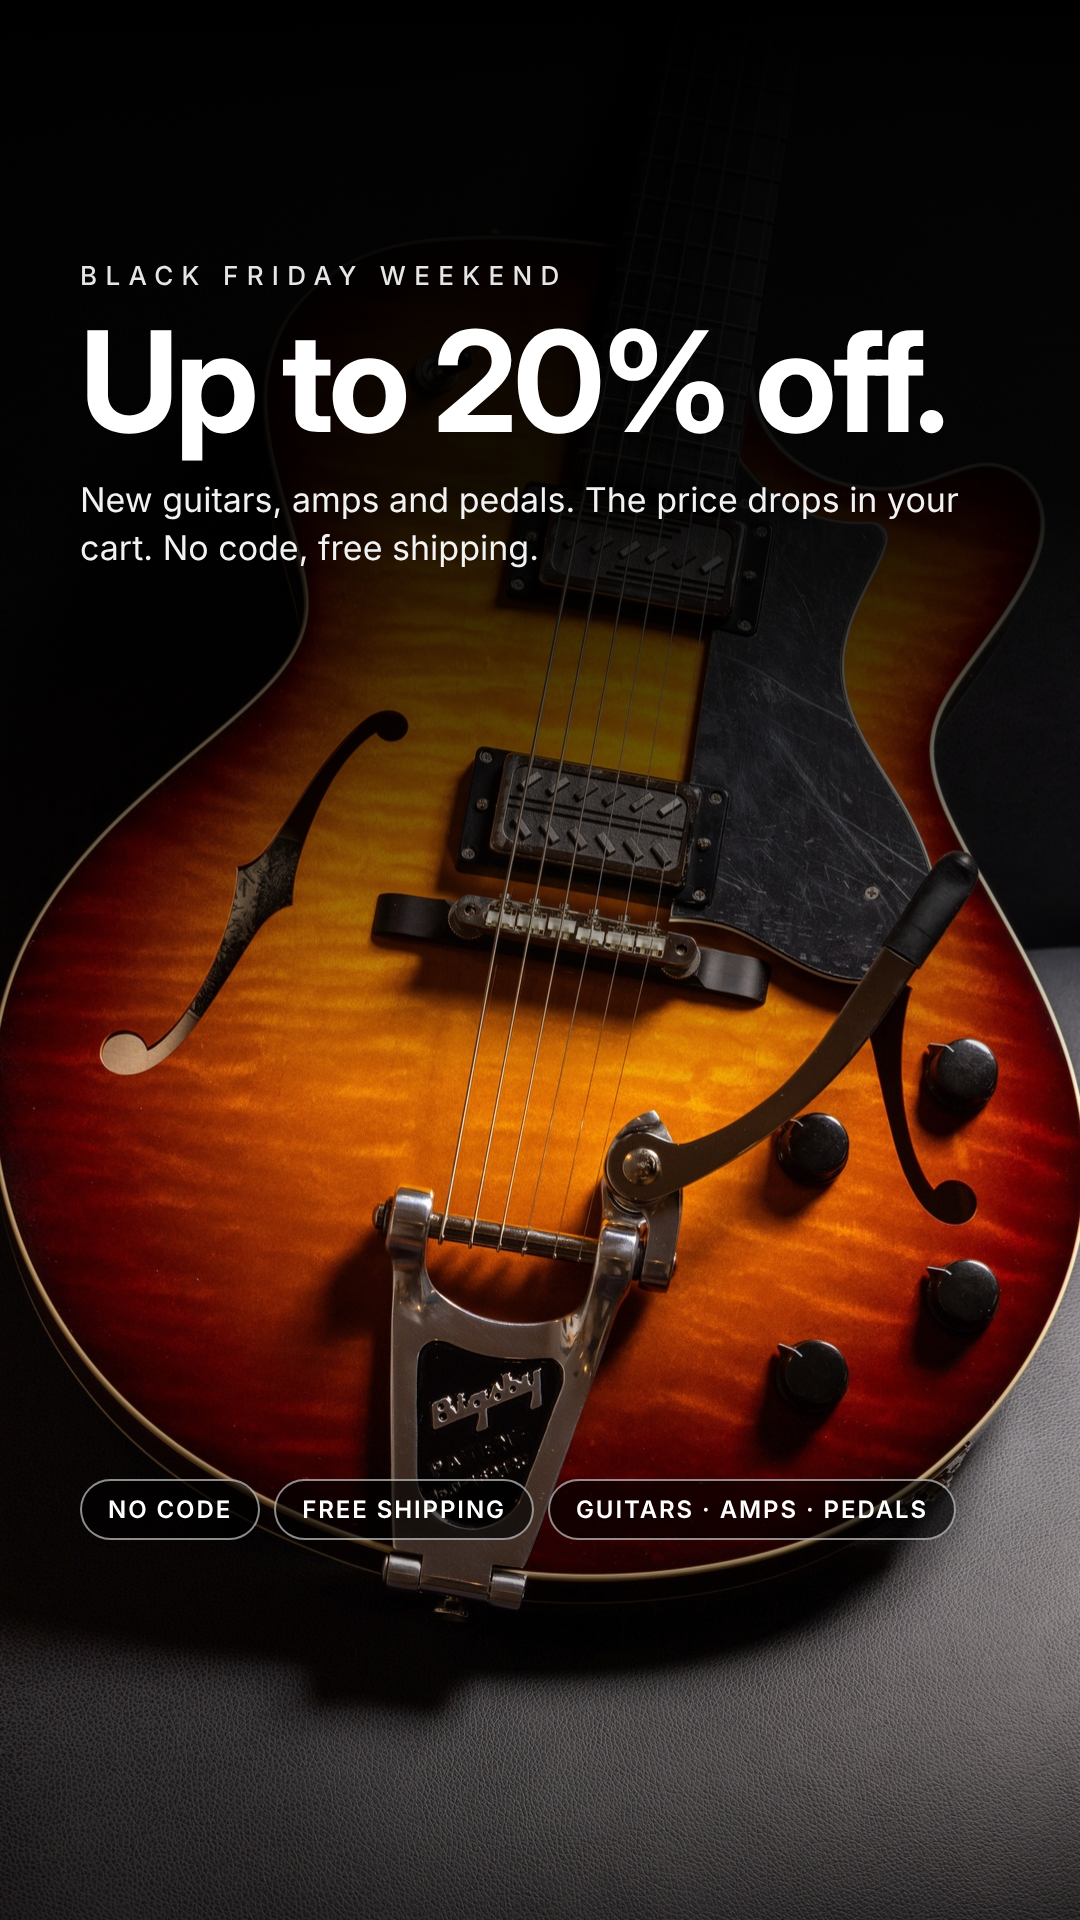
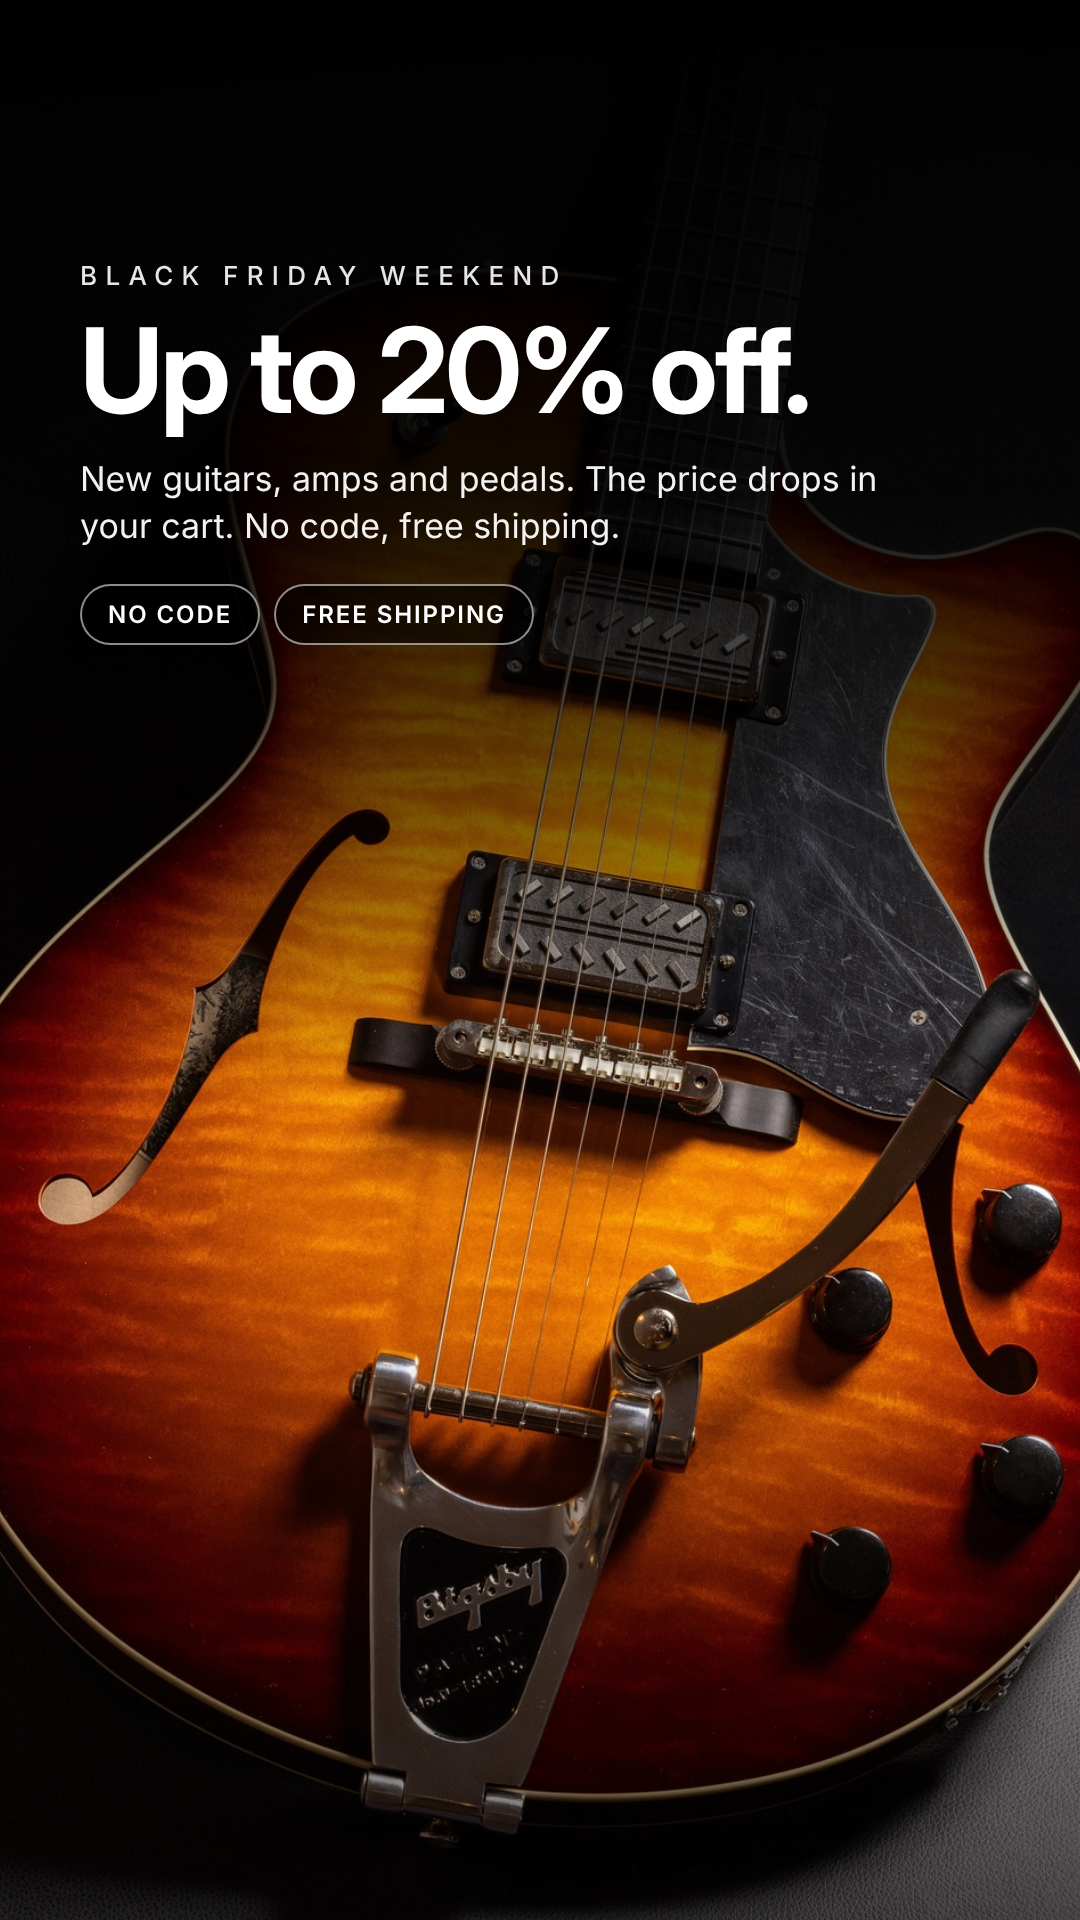
Tighten Reels/Stories layout: text in safe zone, guitar fills frame
Claude-Session: https://claude.ai/code/session_01WuKi1F3N1ceuBo8iT2zTFH

diff --git a/meta-ads-black-friday/src/ad2.html b/meta-ads-black-friday/src/ad2.html
@@ -18,12 +18,13 @@ const story=H>=1900,sq=H<=1080,T=story?260:sq?70:90;
 const img=story?'photo-story.jpg':sq?'photo-square.jpg':'photo-feed.jpg';
 const C={A:{h:'Up to 20% off.',p:'New guitars, amps and pedals. The price drops in your cart. No code, free shipping.'},
  B:{h:'Add to cart.<br>Watch it drop.',p:'Up to 20% off new guitars, amps and pedals. No code needed, and shipping is free.'}}[v];
-const hs=sq?(v=='B'?92:116):(v=='B'?112:140);
+const hs=sq?(v=='B'?92:116):story?(v=='B'?110:118):(v=='B'?112:140);
+const TAGS='<div class="tags"><span class="tag">NO CODE</span><span class="tag">FREE SHIPPING</span></div>';
 const fadeH=sq?560:story?1100:700;
-ad.innerHTML=`<div class="photo" style="background-image:url(${img})"></div>
+ad.innerHTML=`<div class="photo" style="background-image:url(${img});${story?'background-size:114% auto;background-position:center top':''}"></div>
 <div class="fade" style="height:${fadeH}px;background:linear-gradient(#000 0%,rgba(0,0,0,.92) ${story?45:40}%,rgba(0,0,0,.55) 72%,rgba(0,0,0,0) 100%)"></div>
 <div class="bfade" style="height:${story?600:260}px"></div>
-<div class="copy" style="top:${T}px"><div class="eyebrow">BLACK FRIDAY WEEKEND</div>
-<h1 style="font-size:${hs}px">${C.h}</h1><p style="${sq?'font-size:30px;max-width:880px':''}">${C.p}</p></div>
-<div class="tags" style="bottom:${story?380:60}px"><span class="tag">NO CODE</span><span class="tag">FREE SHIPPING</span>${sq?'':'<span class="tag">GUITARS · AMPS · PEDALS</span>'}</div>`;
+<div class="copy" style="top:${T}px;${story?'right:180px':''}"><div class="eyebrow">BLACK FRIDAY WEEKEND</div>
+<h1 style="font-size:${hs}px">${C.h}</h1><p style="${sq?'font-size:30px;max-width:880px':''}">${C.p}</p>${story?TAGS.replace('class="tags"','class="tags" style="position:static;margin-top:34px"'):''}</div>
+<div class="tags" style="bottom:60px;${story?'display:none':''}"><span class="tag">NO CODE</span><span class="tag">FREE SHIPPING</span>${sq?'':'<span class="tag">GUITARS · AMPS · PEDALS</span>'}</div>`;
 </script></body></html>
